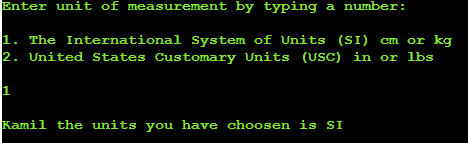
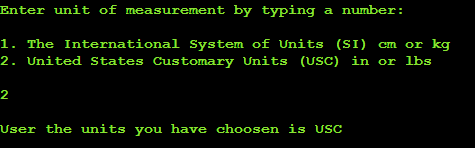
Adding last test photos to readme file

Changed region(s): [[0.0, 0.0, 0.9872, 1.0]]

diff --git a/README.md b/README.md
@@ -199,6 +199,8 @@ As a presentation level and to provide a clear understanding for user as well as
 
 * Test using PEP8 validator to avoid conventions errors, pass in first approach
 
+![PEP8](images_readme/pep8_result.PNG)
+
 ### **Manual testing**
 
 * Incorrect type of data provided into the terminal to ensure triggering correct messages
@@ -240,7 +242,7 @@ As a presentation level and to provide a clear understanding for user as well as
 
 **Unit USC Pass Test**
 
-![Unit USC Pass Test]()
+![Unit USC Pass Test](images_readme/unit_usc_pass.PNG)
 
 ## **Weight**
 
@@ -277,6 +279,27 @@ As a presentation level and to provide a clear understanding for user as well as
 **Height USC Pass Test**
 
 ![Height USC Pass Test](images_readme/height_lbs_pass.PNG)
+
+## **Result**
+
+**Result**
+
+![Result](images_readme/result.PNG)
+
+## **Exit or Continue**
+
+**Exit wrong Value Test**
+
+![Exit wrong Value Test](images_readme/exit_calc_wrong.PNG)
+
+**Continue?**
+
+![Continue?](images_readme/exit_calc_yes.PNG)
+
+**Exit?**
+
+![Continue?](images_readme/exit_calc_no.PNG)
+
 
 
 [Back to Table Of Content](#tableOfContents)
